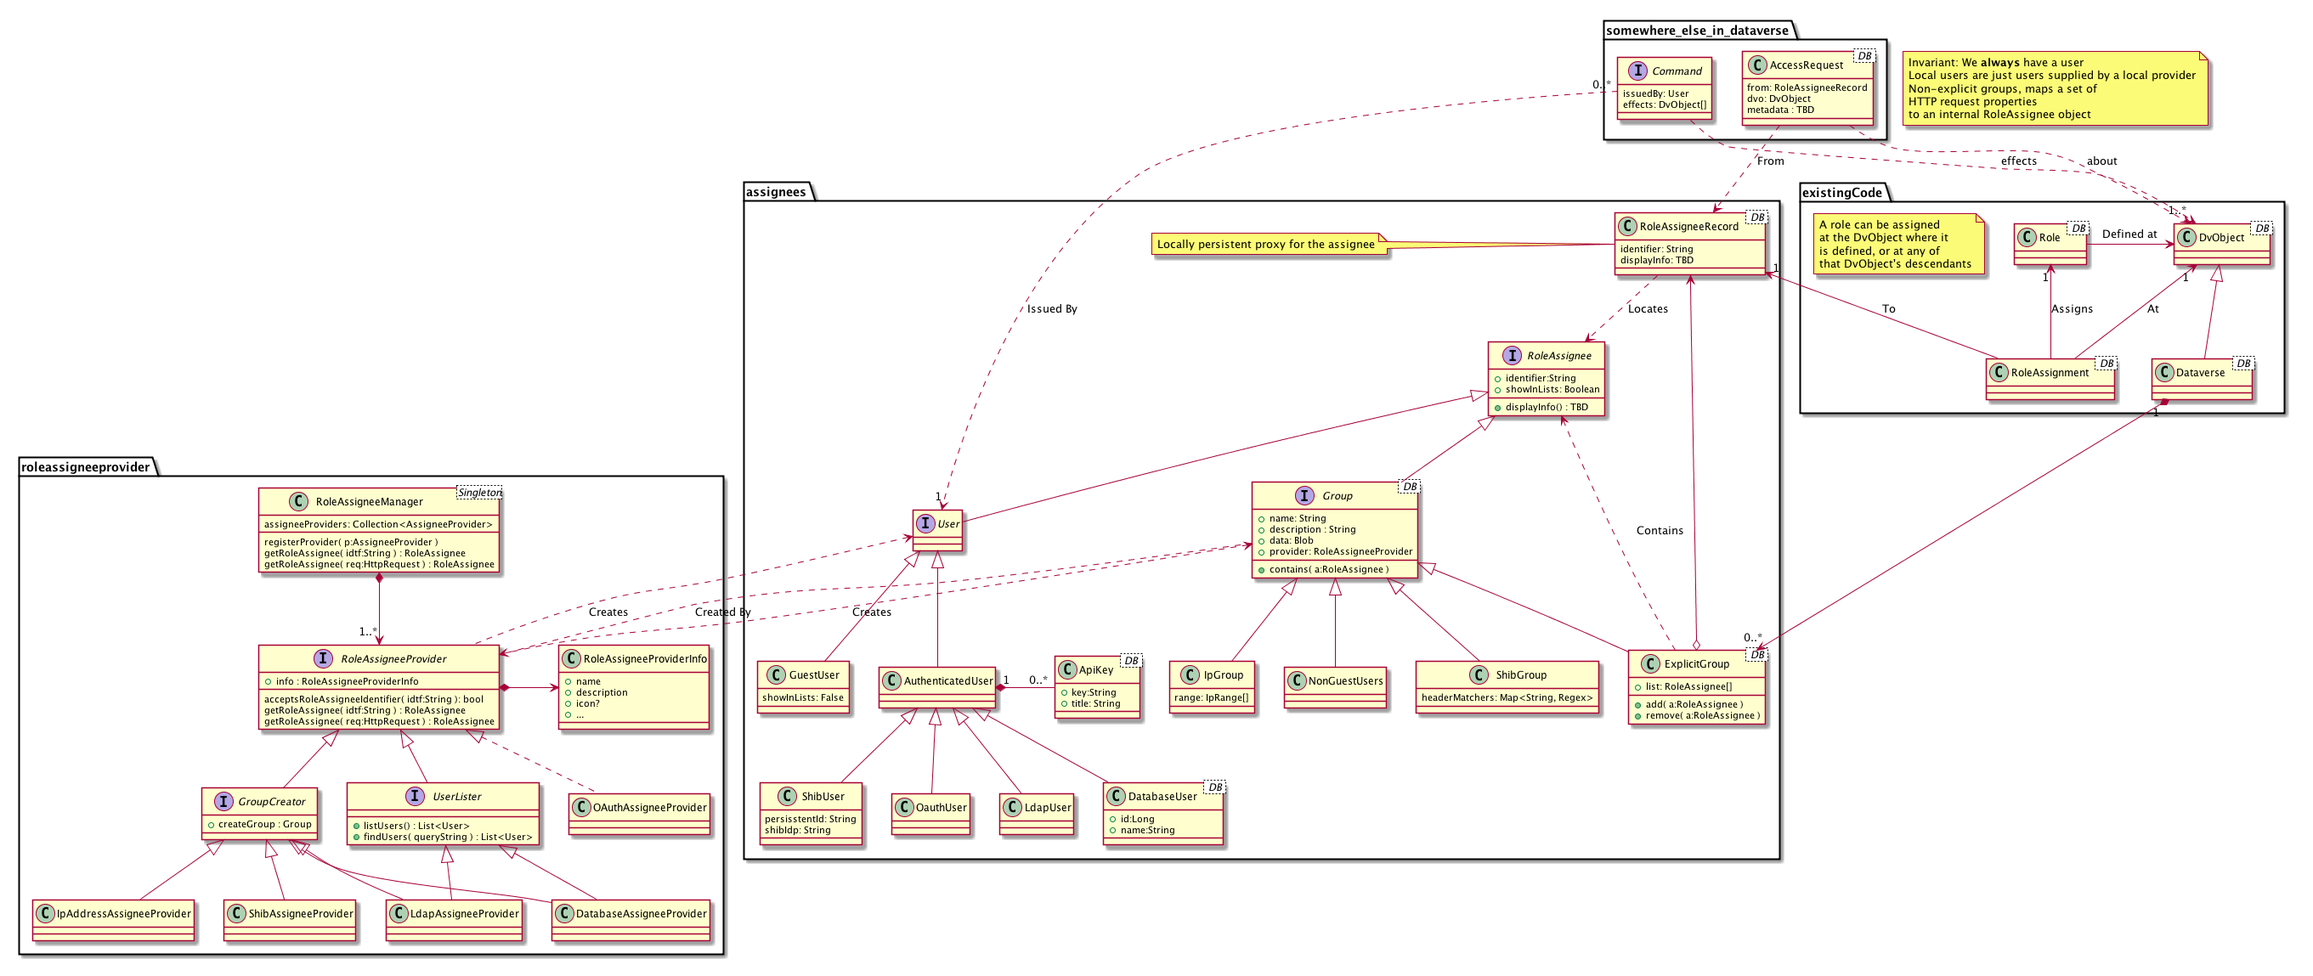
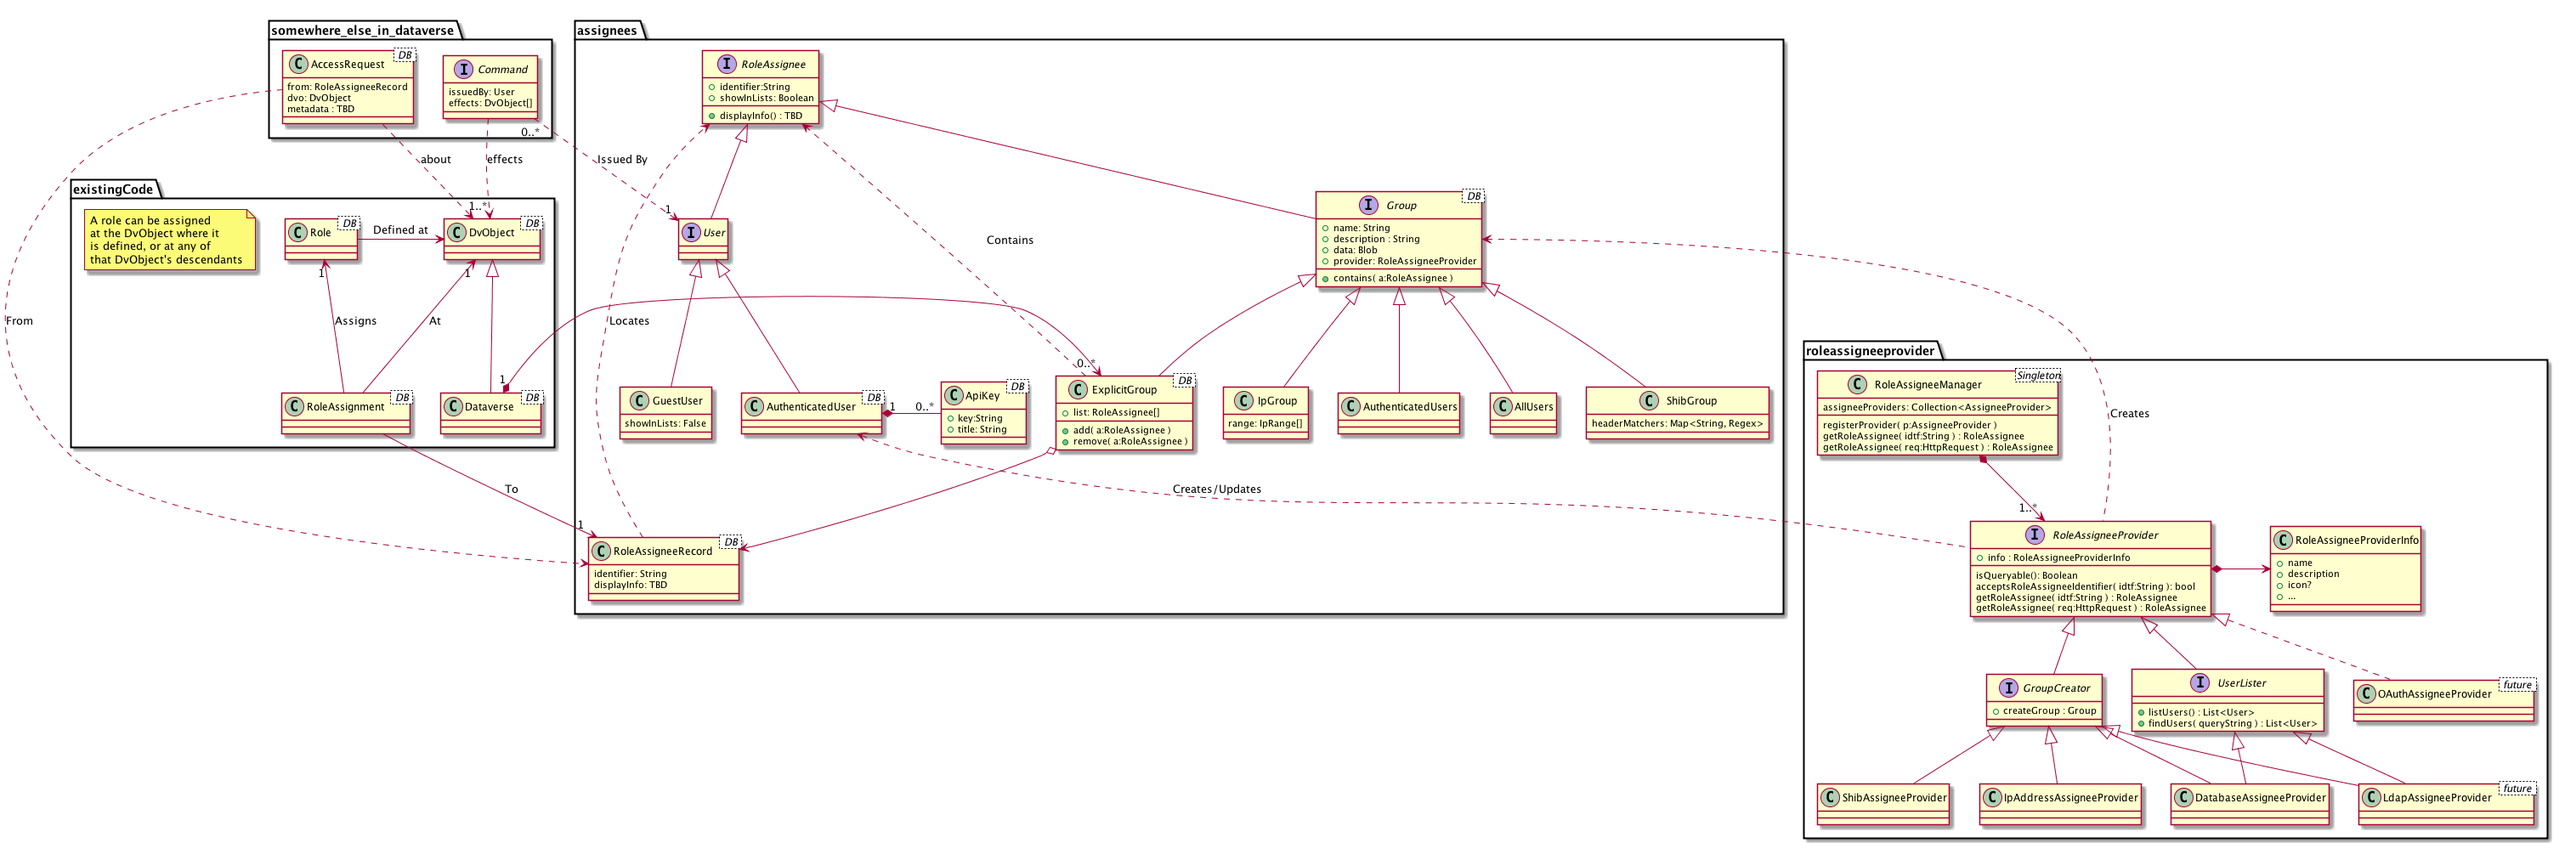
Updated auth documents

diff --git a/doc/Architecture/auth.md b/doc/Architecture/auth.md
@@ -1,4 +1,4 @@
-# Auth - internal
+# Pluggable Authentication and 
 
 ## System goals
 
@@ -6,35 +6,39 @@
 
 > For DvObject - who holds what permissions
 
-## Design Goals
+## Notes About the Design
 * Invariant - there's always a user
+    - Required for auditing, logging, etc.
     - Required for the Command Architecture
-    - Also, required for auditing, logging, etc.
+* The design is inspired by JDBC
+    * Each identity provider has its own "Driver", but all conform to the same high-level interface.
+    * Assignees have "URL"s, the first part of which identifies the `RoleAssigneeProvider` that created the user.
 * A single user object object might refer to a group of actual people (specifically, `GuestUser`). 
-    - Single physical person is referred by subclasses of `AuthenticatedUser`
-    - A `GuestUser` can be a member of a group, either explicitly (i.e. inclusion in a `ExplicitGroup`) or via other request headers (e.g. guest accessing Dataverse from an IP address included in an `IpGroup` ).
-* All groups live in the DB. Their users might not.
-* No group membership is cached on our side, to avoid stale data (as in, user removed from institute directory but still has institute permission on Dataverse).
-* One cannot go from a user to all the groups said user belongs to. Example: IP group membership is determined at *query* time.
-* All groups and users are equal (i.e, Nothing special about Local Users, except that this user provider is bundled with the system)
-* JDBC inspired
-* Assignees have "URL"s, the first part of which identifies the `RoleAssigneeProvider` that created the user. The suffix of the URL may allow the `RoleAssigneeProvider` to generate the user (e.g. `DatabaseUserProvider`).
+    - Single physical person is referred by `AuthenticatedUser`
+    - A `GuestUser` is a regular user, and can be a member of a group, either explicitly (i.e. inclusion in an `ExplicitGroup` or some other group hierarchy) or via other request headers (e.g. guest accessing Dataverse from an IP address included in an `IpGroup` ).
+* All groups live in the DB.
+* All authenticated users live in the DB as well. Users whose information is maintained on other systems (e.g. Shibboleth, ActiveDirectory) might have their cached information updated when they log in.
+* For authenticated users from other systems, group memberships are never cached on the Dataverse side, to avoid stale data (as in, user removed from institute directory but still has institute permission on Dataverse).
+    - A `RoleAssigneeProvider` may or may not allow Dataverse to issue queries about group memberships of individual users. Users coming from providers that allow such queries will have easier time using API keys, as their group memberships could be validated without them logging in.
+* One cannot go from a user to all the groups said user belongs to. Example: IP group membership is determined at *query* time and based on IP address, not on user id.
+** The mapping between the user generated by the `RoleAssigneeProvider` to the `AuthenticatedUser` is done using a lookup table, mapping from the user's id (a jdbc url-like string) to an `AuthenticatedUser.id`. In the long run, this will allow multiple logins to map to the same internal system user (e.g. a login with Shibboleth or a Mendeley username ends up with the same user).
+    - Multiple logins are not planned for 4.0
+* All types of groups and users are equal (i.e, Nothing special about Local Users, except that this user provider is bundled with the system)
+    - In particular, `DatabaseUser` is not a subclass of `AuthenticatedUser`. This allows the internal database-backed assignee provider package to evolve independently of the standard cached assignees. `DatabaseUser`s are associated with an `AuthenticatedUser` using the regular lookup table.
 * DvObject access request are sent from `AutehnticatedUser`s. The "to" field is inferred - everyone that has a `Permission.GrantPermissions` permission on said DvObject.
 
 ## Issues
-* API keys permissions are an issue - permissions from groups whose memberships can't be validated at the time of the API call
-* Add `Everyone` group
-* Add use cases for users logging in from various places
-* Add option for actively querying user providers
-    - e.g. to allow admins to pro-actively assign roles to users on remote directories
-    - Might require storage for `RoleAssigneeProvider`
-* Update display login on `RoleAssigneeRecord`s when their role assignee logs in.
-* 
+* The permission set of an API key might be different from its owner permission set, in case some of the permissions come from group memberships that cannot be validated by the system at the time of the call.
+    - e.g. Shibboleth group membership cannot be dynamically queried (in 4.0), thus membership in local groups that relies on Shibboleth' member-of headers cannot be validated. As this is a security issue, we err on the safe side and assume the user owning the key is not a group member.
+    - This is only a problem with assignee providers that don't allow Dataverse to query group memberships. So, does not apply to `DatabaseUserProvider`. Might apply to Shibboleth and LDAP.
+    - Temporary Workaround: Including the user in an `ExplicitGroup` when needed. Note that this will create stale data in the system, and would mean managing user's memberships in the institution directory as well as in Dataverse.
+    - Solution: Use query-able directories
 
-## Pluggability - for 4.0
+## What does "Pluggability" means for Dataverse 4.0
 * Pull-request based (not full .jar based plugins in a `plugin` directory)
 * No "special cases" for different user providers at the back end (*including database schema*)
 * UI can have special cases (JSF + backing beans) for each user provider.
+    - Hopefully, UI will be incorporated into the plug-ins in later versions
 * Groups are stored in the `Groups` table. Common fields, defined at the interface level, are normal database fields. Each row holds a reference to an `RoleAssigneeProvider`. Implementation specific data goes in a blob field (e.g. an `IpGroup` can store a JSON string there, with the ranges).
 
 ## Activities
@@ -48,3 +52,15 @@
     3. `permissions = permissions U permissions( roles(dvObj, explicit_groups(dvObj,u)) )`
     4. If `dvObj` is a permission root, output `permissions`
     4. else, `dvObj` &larr; `parent(dvObj)`
+
+## Diagrams
+### Class Diagram:
+See all involved classes
+![Class Diagram](UsersAndGroups.png)
+
+###User login process
+![User login](userLogin.png)
+
+###Loading groups
+This diagram shows how groups are loaded. Note how the system handles the `RoleAssigneeProvier`s' different data structures in an a opaque way - as far as the system knows, these are just strings that should be passed to the provider.
+![Loading groups](loadGroups.png)
